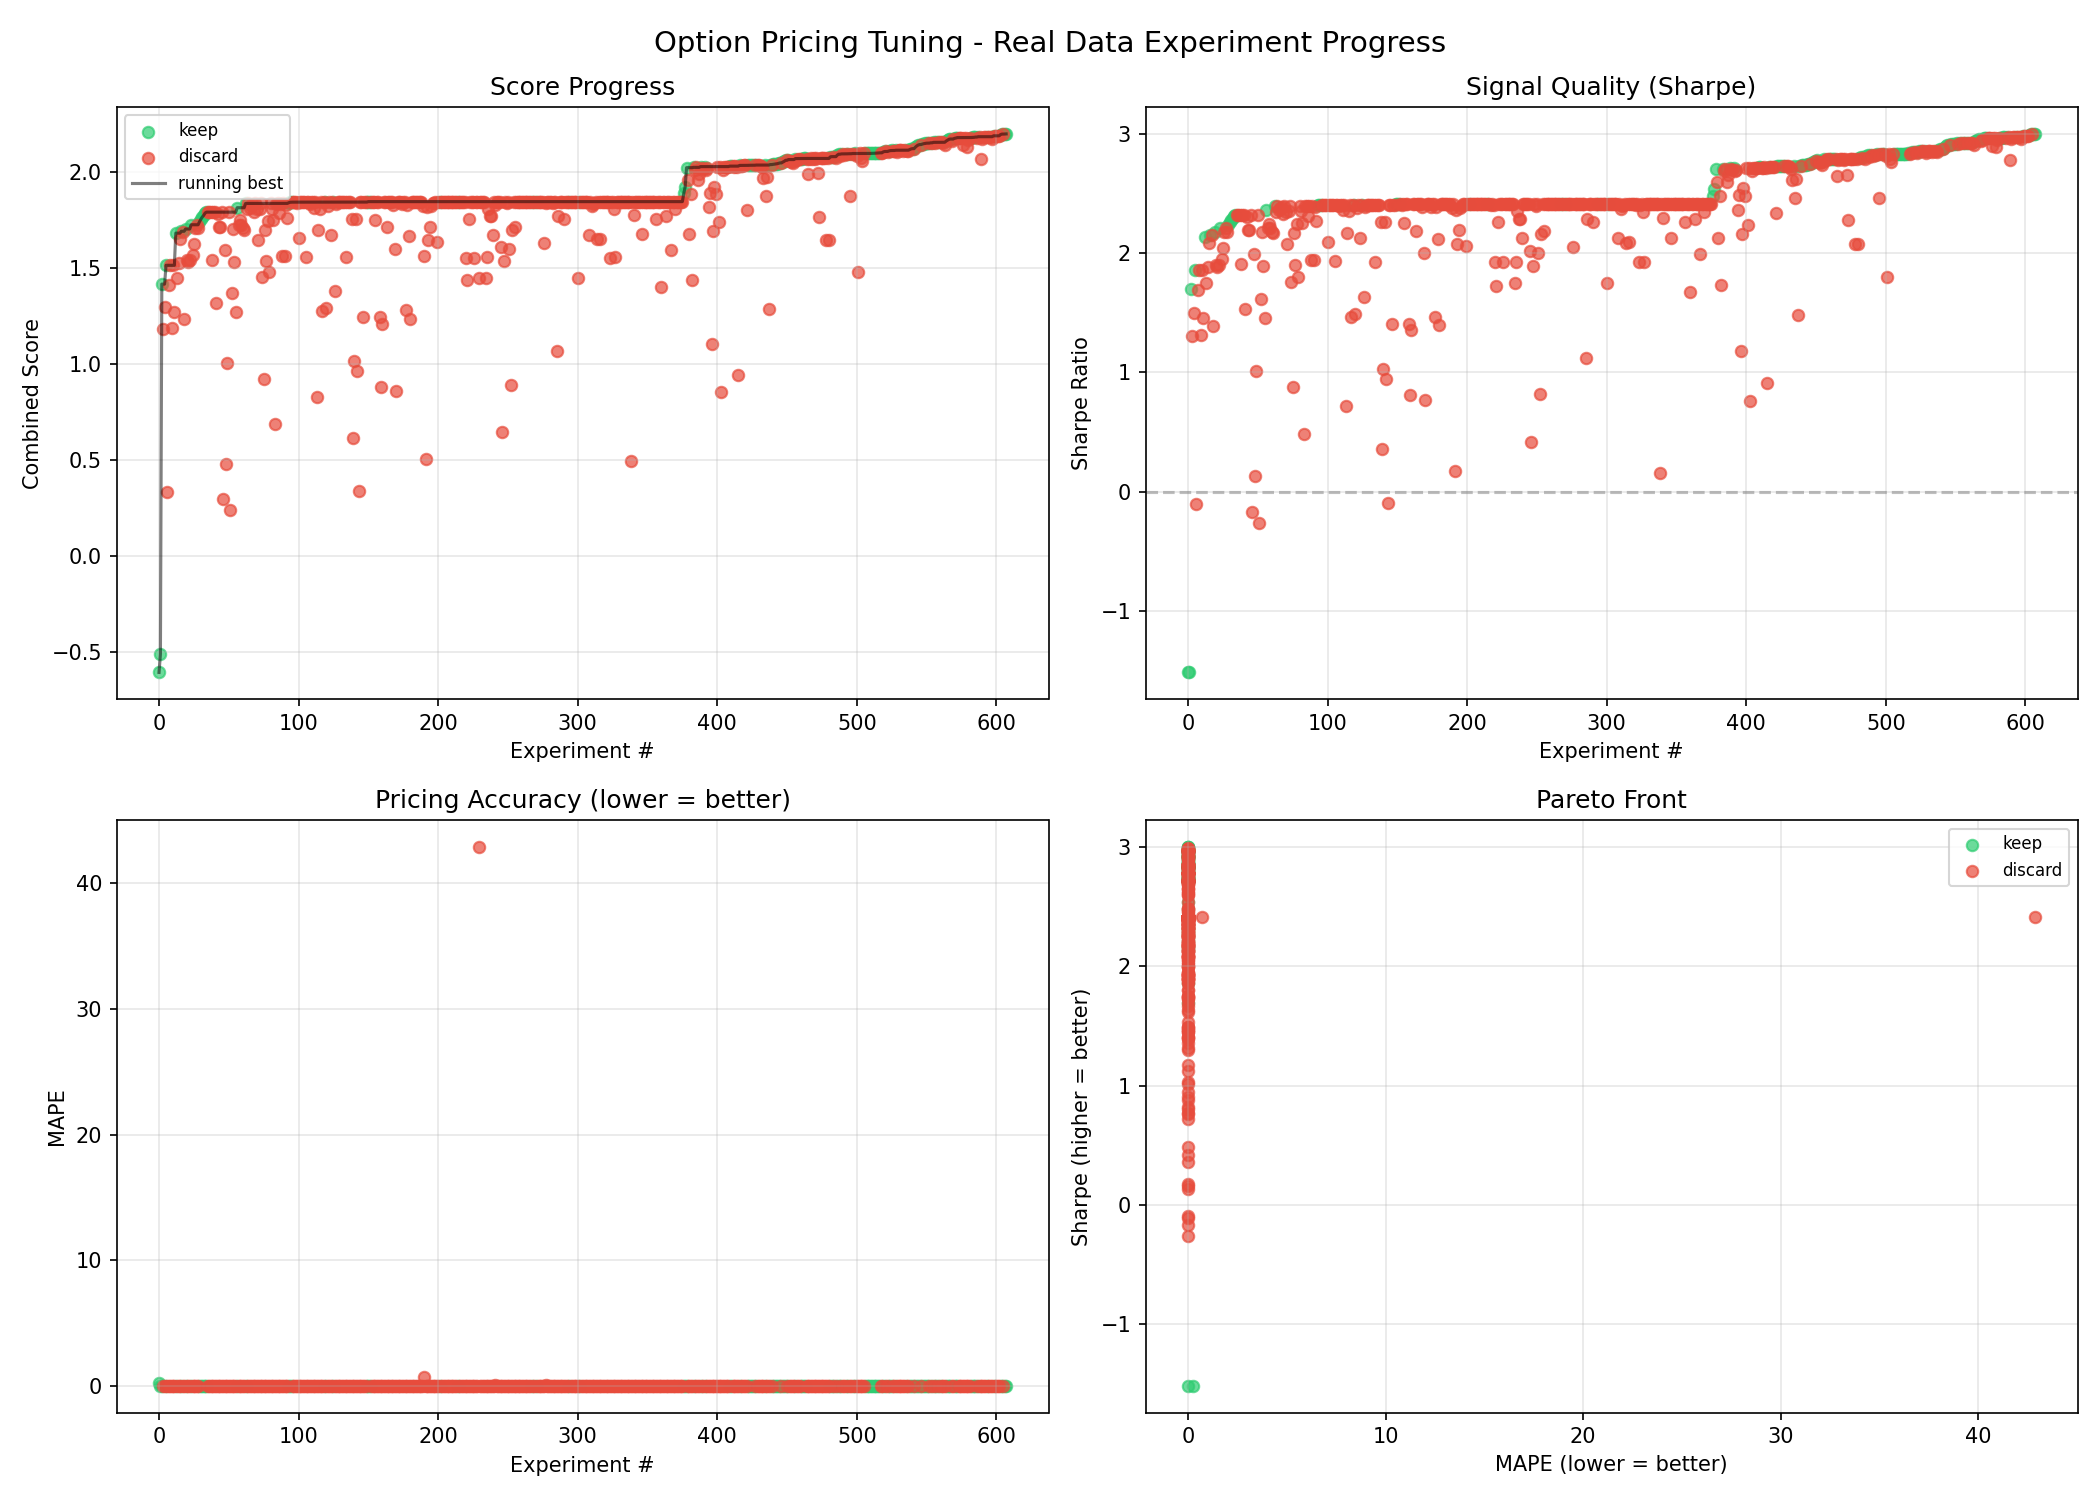
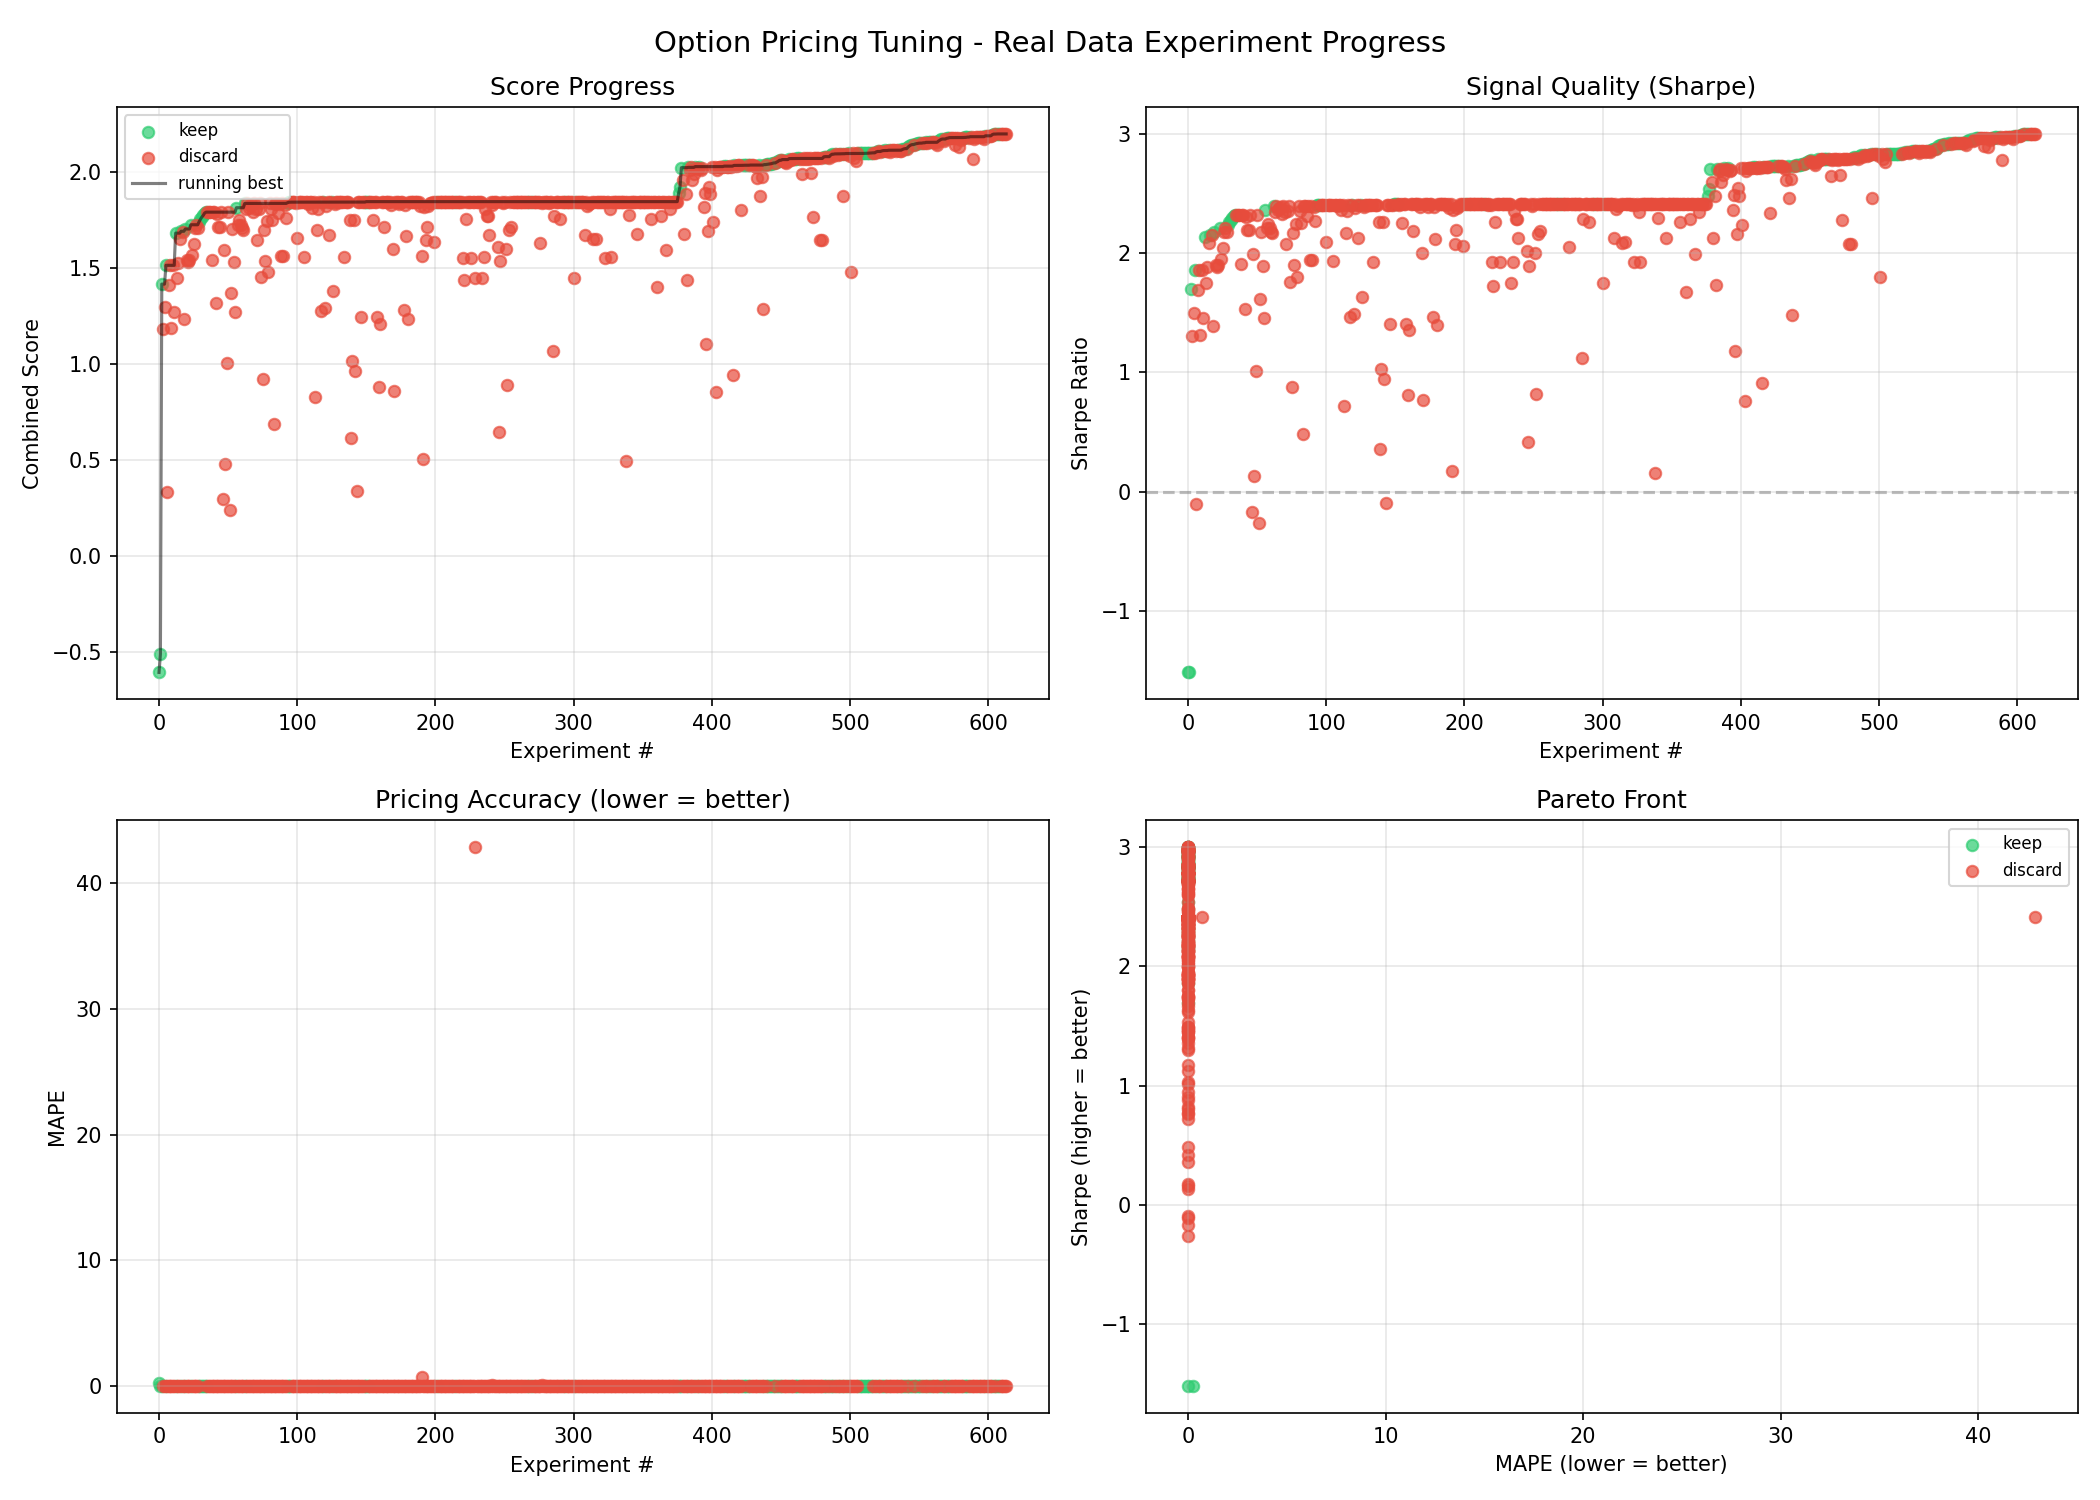
log exp614

diff --git a/README.md b/README.md
@@ -14,7 +14,7 @@ signals using **real stock market data** from Yahoo Finance.
 | MAPE | 0.002003 |
 | Win Rate | 92.6% |
 | Trades | 27 |
-| Experiments | 608 (125 kept) |
+| Experiments | 614 (126 kept) |
 
 ## How It Works
 
